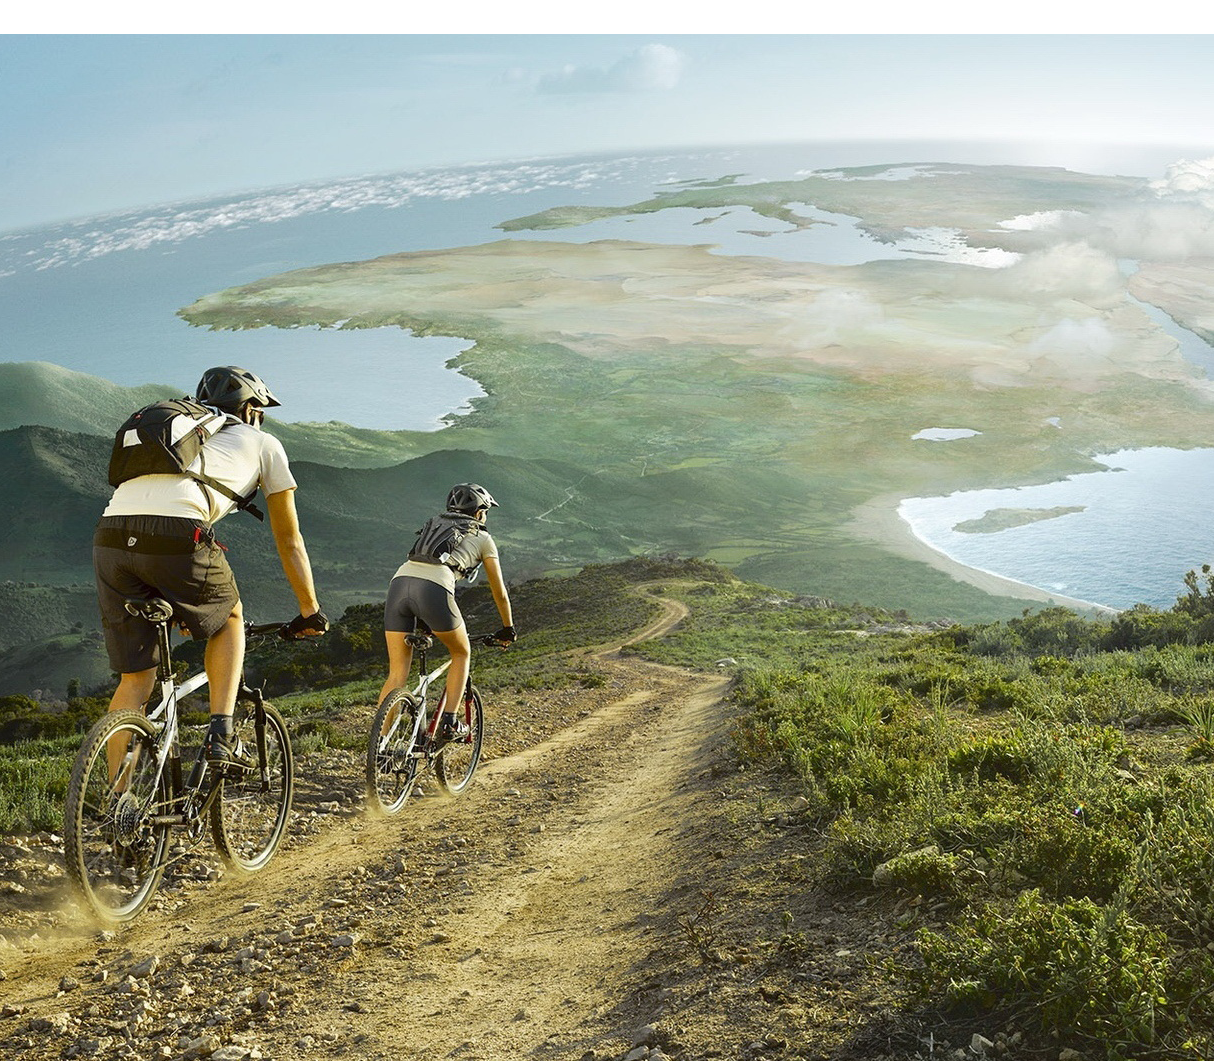
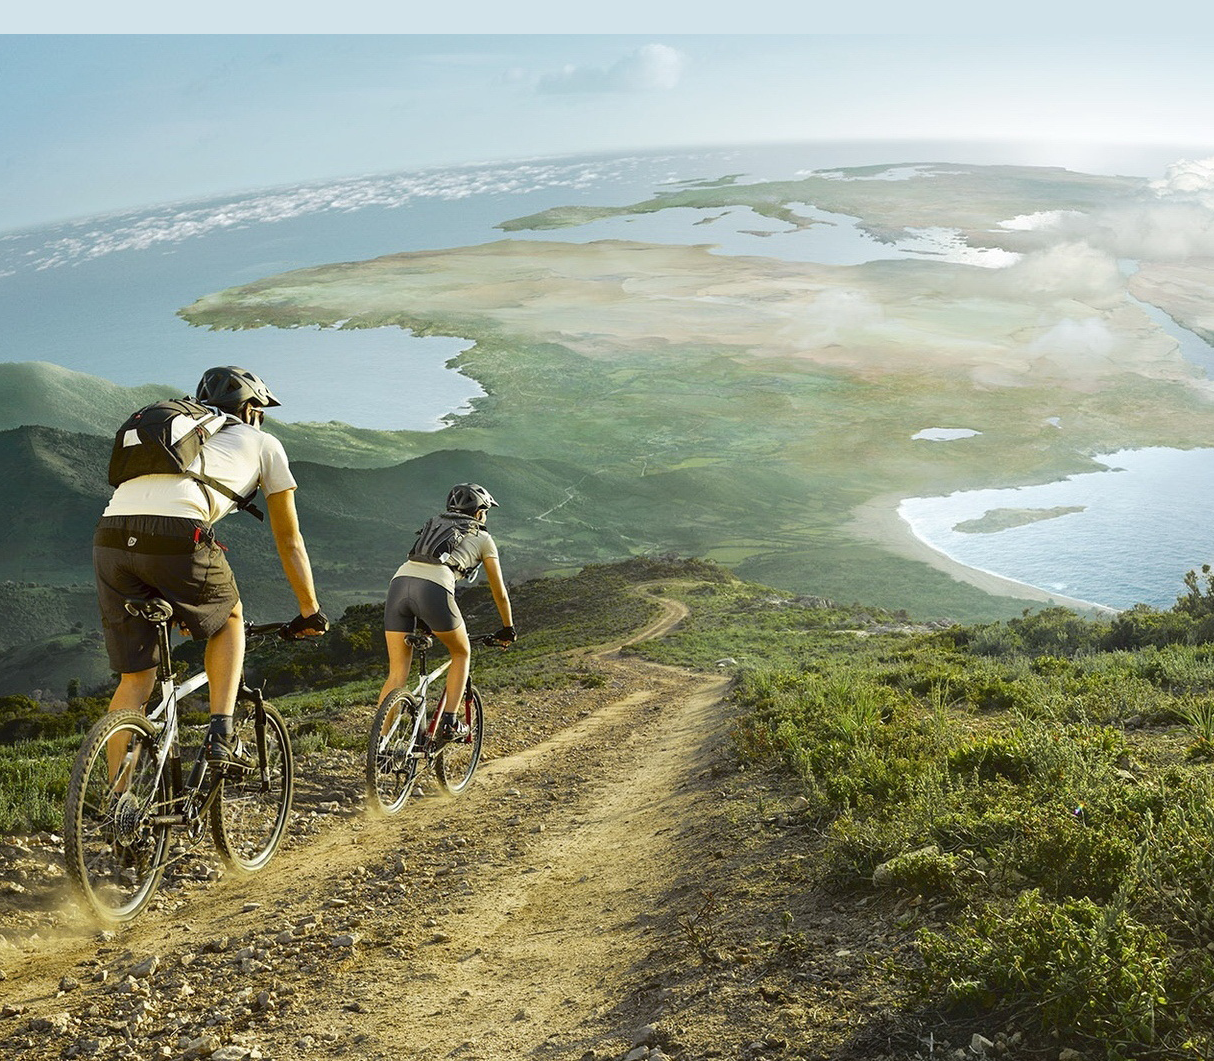
Homework5

Changed region(s): [[0.0, 0.0, 1.0, 0.0311]]

diff --git a/css/style.css b/css/style.css
@@ -20,88 +20,141 @@ body {
 	padding: 0;
 }
 
-header {
-	/*position: relative;
-	width: 1215px;
-	top: 0;*/
+.panel {
+	position: absolute;
+	top: 0;
+	left: 0;
+	width: 100%;
 	height: 40px;
 	background: #075191;
-	margin: 0 auto 0;
+}
+
+.flag_icon {
+	position: relative;
+	top: -33px;
+	left: 996px;
+	width: 25px;
+	height: 30px;
+}
+
+.border {
+	position: relative;
+	top: -66px;
+	left: 979px;
+	width: 3px;
 }
 
 .menu {
-	/*display: inline-block;
-	vertical-align: top;*/
-	margin: 0 auto;
+	margin-left: 36%;
+	list-style: none;
 }
 
-.tab1 {
-	display: block;
-	/*position: absolute;*/
-	left: 369px;
-	width: 130px;
+.menu li {
+	position: relative;
+	/*top: 10px;*/
+	display: inline-block;
+	vertical-align: top;
+	/*margin: 0px 3px 0px;*/
+	padding: 0;
+}
+
+.menu .tab1 {
+	left: 100px;
+	width: 110px;
 	height: 40px;
-	list-style: none;
+	margin: 0;
 }
 
 .tab2 {
-	display: block;
-	/*position: absolute;*/
-	left: 486px;
+	left: 97px;
 	width: 70px;
 	height: 40px;
-	list-style: none;
 }
 
 .tab3 {
-	/*position: absolute;*/
-	left: 560px;
-	width: 70px;
+	left: 94px;
+	width: 65px;
 	height: 40px;
-	list-style: none;
 }
 
 .tab4 {
-	/*position: absolute;*/
-	left: 632px;
+	left: 91px;
 	width: 75px;
 	height: 40px;
-	list-style: none;
+	
 }
 
 .tab5 {
-	/*position: absolute;*/
-	left: 719px;
-	width: 70px;
+	left: 88px;
+	width: 67px;
 	height: 40px;
-	list-style: none;
 }
 
 .tab6 {
-	/*position: absolute;*/
-	left: 838px;
-	width: 145px;
+	left: 89px;
+	width: 155px;
 	height: 40px;
-	list-style: none;
+}
+
+.tab6 > a {
+	text-align: right;
+	width: 156px;
+	padding-right: 11px;
 }
 
 .tab7 {
-	/*position: absolute;*/
-	left: 975px;
-	width: 205px;
+	left: 87px;
+	width: 190px;
 	height: 40px;
-	list-style: none;
 }
 
 a {
-	display: inline-block;
-	vertical-align: top;
-	margin: 10px 12px;
+	display: block;
+	height: 40px;
+	padding-top: 10px;
+	margin: 0;
+	text-align: center;
 	text-decoration: none;
 	font-family: "Helvetica Neue Cyr Thin", sans-serif;
-	font-size: 15px;
-	font-style: none;
+	font-size: 14px;
+	box-sizing: border-box;
+}
+.a1 {
+	color: rgb(96, 181, 237);
+}
+
+.a1:hover {
+	background-color: #4eabda;
 	color: white;
+}
+
+.a2 {
+	color: rgb(255, 255, 255);
+}
+
+.a3 {
+	color: rgb(255, 255, 255);
+}
+.a3:hover .text_a3 { /*Cтилизация кнопки "Ola! Entrar ou Cadastre-se*/
+	border-bottom: 1px solid white;
+}
+
+/*Cтилизация кнопки "Ola! Entrar ou Cadastre-se*/
+.a3:hover { 
+	background: rgba(183,222,237,1);
+	background: -moz-linear-gradient(top, rgba(183,222,237,1) 0%, rgba(113,206,239,1) 14%, rgba(33,180,226,1) 33%, rgba(47,124,197,1) 100%);
+	background: -webkit-gradient(left top, left bottom, color-stop(0%, rgba(183,222,237,1)), color-stop(14%, rgba(113,206,239,1)), color-stop(33%, rgba(33,180,226,1)), color-stop(100%, rgba(47,124,197,1)));
+	background: -webkit-linear-gradient(top, rgba(183,222,237,1) 0%, rgba(113,206,239,1) 14%, rgba(33,180,226,1) 33%, rgba(47,124,197,1) 100%);
+	background: -o-linear-gradient(top, rgba(183,222,237,1) 0%, rgba(113,206,239,1) 14%, rgba(33,180,226,1) 33%, rgba(47,124,197,1) 100%);
+	background: -ms-linear-gradient(top, rgba(183,222,237,1) 0%, rgba(113,206,239,1) 14%, rgba(33,180,226,1) 33%, rgba(47,124,197,1) 100%);
+	background: linear-gradient(to bottom, rgba(183,222,237,1) 0%, rgba(113,206,239,1) 14%, rgba(33,180,226,1) 33%, rgba(47,124,197,1) 100%);
+	filter: progid:DXImageTransform.Microsoft.gradient( startColorstr='#b7deed', endColorstr='#2f7cc5', GradientType=0 );
+	border: 1px ridge #4eabda;
+	border-top: none;
+}
+
+.text_a3 {
+	border-bottom: 1px solid transparent;
 }
 
 .conteiner {
@@ -110,8 +163,6 @@ a {
 	left: 50%;
 	max-width: 1920px;
 	min-height: 1080px;
-	/*transform: translate(-50%, -50%);*/
-	
 }
 
 
@@ -157,16 +208,23 @@ form {
 	top: -16px;
 	left: 0px;
 	width: 122px;
+	height: 2px;
 	display: block;
-	border: 1px solid;
-	border-color: rgba(0, 0, 0, 1);
 	clear: both;
+	background: rgba(76,76,76,1);
+	background: -moz-linear-gradient(top, rgba(76,76,76,1) 0%, rgba(89,89,89,1) 12%, rgba(102,102,102,1) 25%, rgba(71,71,71,1) 39%, rgba(44,44,44,1) 49%, rgba(0,0,0,1) 51%, rgba(17,17,17,1) 94%, rgba(43,43,43,1) 96%, rgba(28,28,28,1) 97%, rgba(19,19,19,1) 100%);
+	background: -webkit-gradient(left top, left bottom, color-stop(0%, rgba(76,76,76,1)), color-stop(12%, rgba(89,89,89,1)), color-stop(25%, rgba(102,102,102,1)), color-stop(39%, rgba(71,71,71,1)), color-stop(49%, rgba(44,44,44,1)), color-stop(51%, rgba(0,0,0,1)), color-stop(94%, rgba(17,17,17,1)), color-stop(96%, rgba(43,43,43,1)), color-stop(97%, rgba(28,28,28,1)), color-stop(100%, rgba(19,19,19,1)));
+	background: -webkit-linear-gradient(top, rgba(76,76,76,1) 0%, rgba(89,89,89,1) 12%, rgba(102,102,102,1) 25%, rgba(71,71,71,1) 39%, rgba(44,44,44,1) 49%, rgba(0,0,0,1) 51%, rgba(17,17,17,1) 94%, rgba(43,43,43,1) 96%, rgba(28,28,28,1) 97%, rgba(19,19,19,1) 100%);
+	background: -o-linear-gradient(top, rgba(76,76,76,1) 0%, rgba(89,89,89,1) 12%, rgba(102,102,102,1) 25%, rgba(71,71,71,1) 39%, rgba(44,44,44,1) 49%, rgba(0,0,0,1) 51%, rgba(17,17,17,1) 94%, rgba(43,43,43,1) 96%, rgba(28,28,28,1) 97%, rgba(19,19,19,1) 100%);
+	background: -ms-linear-gradient(top, rgba(76,76,76,1) 0%, rgba(89,89,89,1) 12%, rgba(102,102,102,1) 25%, rgba(71,71,71,1) 39%, rgba(44,44,44,1) 49%, rgba(0,0,0,1) 51%, rgba(17,17,17,1) 94%, rgba(43,43,43,1) 96%, rgba(28,28,28,1) 97%, rgba(19,19,19,1) 100%);
+	background: linear-gradient(to bottom, rgba(76,76,76,1) 0%, rgba(89,89,89,1) 12%, rgba(102,102,102,1) 25%, rgba(71,71,71,1) 39%, rgba(44,44,44,1) 49%, rgba(0,0,0,1) 51%, rgba(17,17,17,1) 94%, rgba(43,43,43,1) 96%, rgba(28,28,28,1) 97%, rgba(19,19,19,1) 100%);
+	filter: progid:DXImageTransform.Microsoft.gradient( startColorstr='#4c4c4c', endColorstr='#131313', GradientType=0 );
 }
 
 .big_text {
 	position: relative;
 	bottom: 26px;
-	left: 129px;
+	left: 128px;
 	width: 20px;
 	font-family: "Helvetica Neue Cyr Thin", sans-serif;
 	font-size: 14px;
@@ -178,7 +236,16 @@ form {
 	top: -35px;
 	left: 153px;
 	width: 122px;
+	height: 2px;
 	clear: both;
+	background: rgba(76,76,76,1);
+	background: -moz-linear-gradient(top, rgba(76,76,76,1) 0%, rgba(89,89,89,1) 12%, rgba(102,102,102,1) 25%, rgba(71,71,71,1) 39%, rgba(44,44,44,1) 49%, rgba(0,0,0,1) 51%, rgba(17,17,17,1) 94%, rgba(43,43,43,1) 96%, rgba(28,28,28,1) 97%, rgba(19,19,19,1) 100%);
+	background: -webkit-gradient(left top, left bottom, color-stop(0%, rgba(76,76,76,1)), color-stop(12%, rgba(89,89,89,1)), color-stop(25%, rgba(102,102,102,1)), color-stop(39%, rgba(71,71,71,1)), color-stop(49%, rgba(44,44,44,1)), color-stop(51%, rgba(0,0,0,1)), color-stop(94%, rgba(17,17,17,1)), color-stop(96%, rgba(43,43,43,1)), color-stop(97%, rgba(28,28,28,1)), color-stop(100%, rgba(19,19,19,1)));
+	background: -webkit-linear-gradient(top, rgba(76,76,76,1) 0%, rgba(89,89,89,1) 12%, rgba(102,102,102,1) 25%, rgba(71,71,71,1) 39%, rgba(44,44,44,1) 49%, rgba(0,0,0,1) 51%, rgba(17,17,17,1) 94%, rgba(43,43,43,1) 96%, rgba(28,28,28,1) 97%, rgba(19,19,19,1) 100%);
+	background: -o-linear-gradient(top, rgba(76,76,76,1) 0%, rgba(89,89,89,1) 12%, rgba(102,102,102,1) 25%, rgba(71,71,71,1) 39%, rgba(44,44,44,1) 49%, rgba(0,0,0,1) 51%, rgba(17,17,17,1) 94%, rgba(43,43,43,1) 96%, rgba(28,28,28,1) 97%, rgba(19,19,19,1) 100%);
+	background: -ms-linear-gradient(top, rgba(76,76,76,1) 0%, rgba(89,89,89,1) 12%, rgba(102,102,102,1) 25%, rgba(71,71,71,1) 39%, rgba(44,44,44,1) 49%, rgba(0,0,0,1) 51%, rgba(17,17,17,1) 94%, rgba(43,43,43,1) 96%, rgba(28,28,28,1) 97%, rgba(19,19,19,1) 100%);
+	background: linear-gradient(to bottom, rgba(76,76,76,1) 0%, rgba(89,89,89,1) 12%, rgba(102,102,102,1) 25%, rgba(71,71,71,1) 39%, rgba(44,44,44,1) 49%, rgba(0,0,0,1) 51%, rgba(17,17,17,1) 94%, rgba(43,43,43,1) 96%, rgba(28,28,28,1) 97%, rgba(19,19,19,1) 100%);
+	filter: progid:DXImageTransform.Microsoft.gradient( startColorstr='#4c4c4c', endColorstr='#131313', GradientType=0 );
 }
 
 input {
@@ -214,7 +281,7 @@ p > .input_txt:hover {
 	font-weight: bolder;
 	font-size: 14px;
 	border-radius: 5px;
-	border-top: 2px solid #778cb9;
+	border-top: 1px solid #778cb9;
 	border-bottom: 2px solid #333f65;
 	background: -moz-linear-gradient(top,  #3d5698, #2d4279 100%);
 	background: -webkit-linear-gradient(top,  #3d5698, #2d4279 100%);

diff --git a/index.html b/index.html
@@ -7,27 +7,29 @@
 	<link rel="stylesheet" type="text/css" href="css/style.css">
 	</head>
 <body>
-	<header>
+	<div class="panel">
 			<ul class="menu">
-				<li class="tab1"><a href="">Meu YouBike</a></li>
-				<li class="tab2"><a href="">Vender</a></li>
-				<li class="tab3"><a href="">Forum</a></li>
-				<li class="tab4"><a href="">Contato</a></li>
-				<li class="tab5"><a href="">Ajuda</a></li>
-				<li class="tab6"><a href="">Minhas Ofertas</a></li>
-				<li class="tab7"><a href="">Ola! Entrar ou Cadastre-se</a></li>
+				<li class="tab1"><a class="a1" href="">Meu YouBike</a></li>
+				<li class="tab2"><a class="a1" href="">Vender</a></li>
+				<li class="tab3"><a class="a1" href="">Forum</a></li>
+				<li class="tab4"><a class="a1" href="">Contato</a></li>
+				<li class="tab5"><a class="a1" href="">Ajuda</a></li>
+				<li class="tab6"><a class="a2" href="">Minhas Ofertas</a></li>
+				<li class="tab7"><a class="a3" href="">Ola! <span class="text_a3">Entrar</span> ou <span class="text_a3">Cadastre-se</span></a></li>
 			</ul>
-	</header>
-	<div class="conteiner">
+			<div class="flag_icon"><img src="img/flag_icons.png"></div>
+			<div class="border"><img src="img/vertical_border.png"></div>
+		</div>
+			<div class="conteiner">
 			<form name="text" action="" method="post">
 				<div><p class="head_form">Cadastre-se</p></div>
 				<hr class="block_head_form">
 				<div class="img_facebook"><img class="facebookLogo" src="img/Facebook_logo.png"></div>
 				<p><input class="reg_facebook" type="submit" name="" value="Log In with Facebook"></p>
 				<div class="triangl_facebook"><img src="img/triangl.png"></div>
-				<hr class="line1">
+				<div class="line1"></div>
 				<p class="big_text">OU</p>
-				<hr class="line2">
+				<div class="line2"></div>
 			    <p><input class="input_txt" type="text" name="text" placeholder="First Name"></p>
 				<p><input class="input_txt" type="text" name="text" placeholder="Last Name"></p>
 				<p><input class="input_txt" type="text" name="text" placeholder="Email Address"></p>
@@ -36,8 +38,11 @@
 				<input class="box" type="checkbox" name="checkbox" id="checkbox">
 				<label class="checkbox_txt" for="checkbox" #checkbox>Send me Youbike updates and tips</label>
 				<p><input class="submit_tab" type="submit" value="Create my Account"></p>
-				<div class="block_By_clicking_the_button"><span class="By_clicking_the_button">By clicking the button above, you agree to the Terms of Service
-Xiew our Privacy Policy.</span></div>
+				<div class="block_By_clicking_the_button">
+					<span class="By_clicking_the_button">
+					By clicking the button above, you agree to the Terms of Service Xiew our Privacy Policy.
+					</span>
+				</div>
 			</form>
 		</div>
 	</body>
